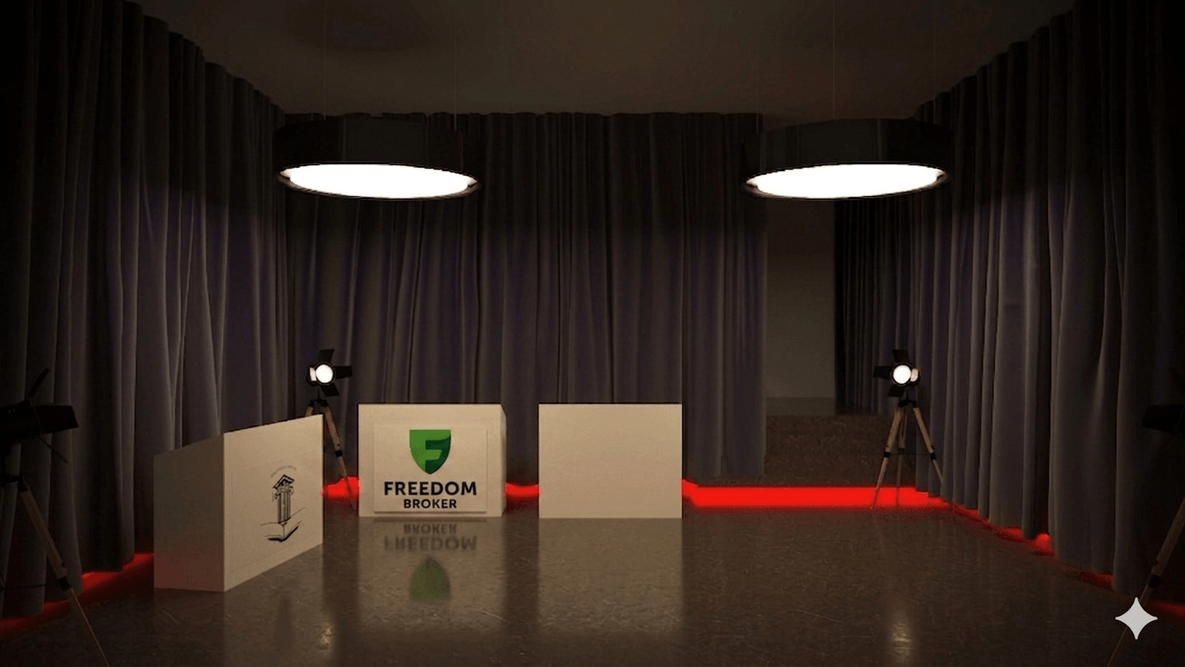
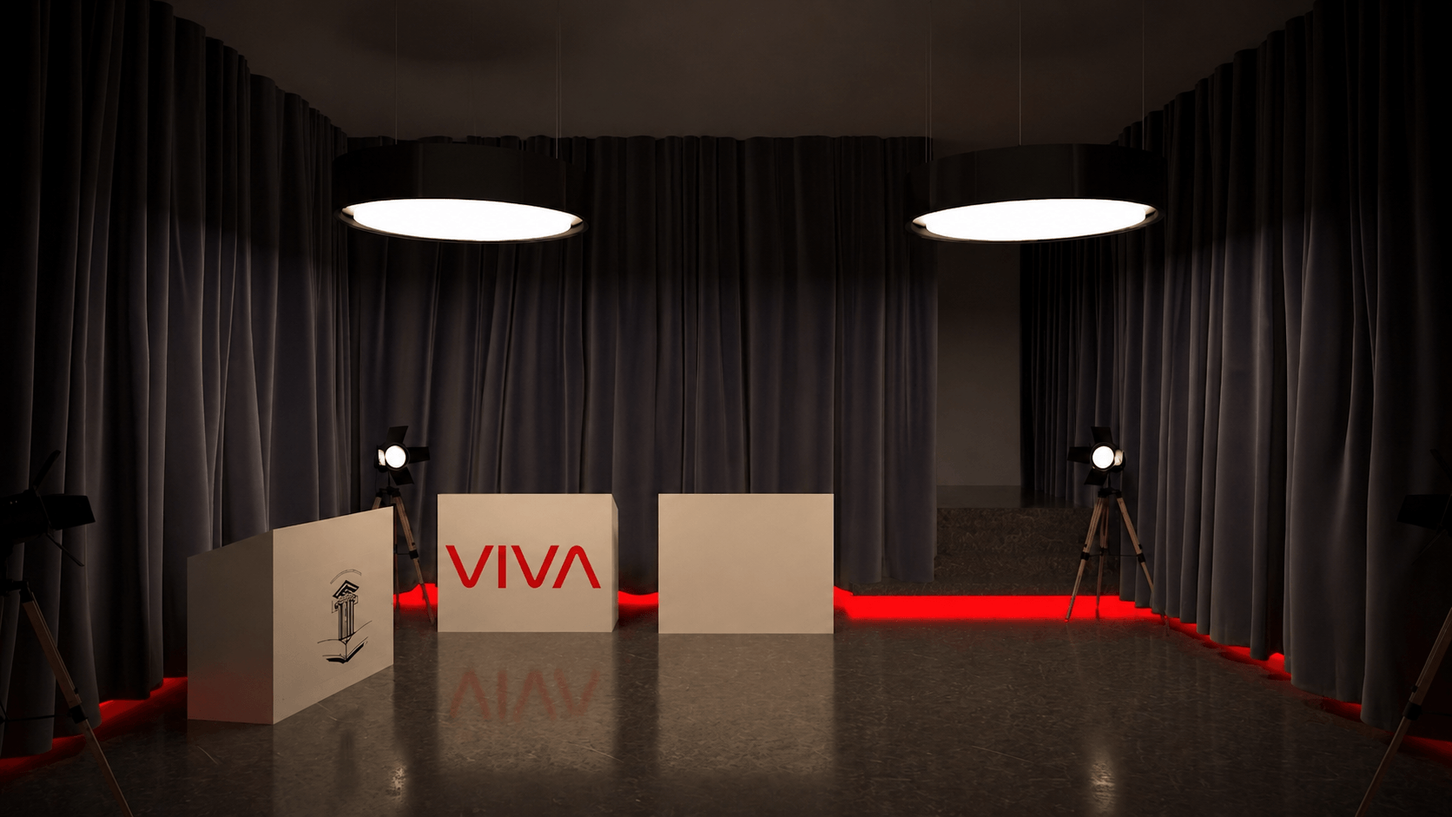
Update images and modify index.html content for Viva Armenia project; change stack-section label color in CSS

diff --git a/src/index.html b/src/index.html
@@ -338,81 +338,100 @@
             <!-- Viva -->
             <section class="viva stack-section" id="viva" aria-label="Viva">
                 <div class="container">
-                    <span class="stack-section__label">Գործարքային փաթեթ «Viva» ընկերության համար</span>
+                    <span class="stack-section__label">Գործարքային փաթեթ «Viva Armenia» ընկերության համար</span>
                     <div class="stack-section__inner">
                         <div class="stack-section__body" data-animate="animate__fadeInUp">
                             <p class="stack-section__text">
-                                <b>Համագործակցության առաջարկ</b>
+                                <b>Հարգելի՛ «Viva Armenia» ընկերության ղեկավարություն</b>
                             </p>
                             <p class="stack-section__text">
-                                Մենք առաջարկում ենք «Viva» ընկերությանը դառնալ նախագծի գլխավոր
-                                հովանավոր՝ ոչ միայն ստանալով
-                                տեսանելիություն, այլ՝ անմիջապես ձևավորելով կապ նոր սերնդի ակտիվ, մտածող և հավակնոտ
-                                ուսանողների հետ՝ խաղերի
-                                վայրում ստեղծված «Viva» ներկայացուցչական գոտու միջոցով։
+                                «Ուսանողական հարթակ» նախագիծը ստեղծվել է մեկ հստակ նպատակով՝ միավորել Հայաստանի ակտիվ,
+                                մտածող և նախաձեռնող ուսանողներին
+                                մեկ հարթակում։ Սակայն այն իրենից ներկայացնում է ավելին, քան պարզապես ինտելեկտուալ և
+                                ժամանցային ծրագիր։ Մեր և ձեր կողմից
+                                մշակված ճիշտ ռազմավարության շնորհիվ այն կարող է ձևավորել երիտասարդների թվային վարքագիծը,
+                                ընտրությունները և
+                                նախասիրությունները։
+                            </p>
+                            <p class="stack-section__text">
+                                Սա պարզապես գովազդային հարթակ չէ․ սա ուղիղ և երկարաժամկետ շփում է Ձեր հիմնական թիրախային
+                                լսարանի՝ 18–25 տարեկան ակտիվ
+                                երիտասարդների հետ, ովքեր ամենօրյա մակարդակով օգտագործում են ինտերնետ, բջջային կապ և
+                                թվային ծառայություններ։ Ծրագրի
+                                կառուցվածքը հնարավորություն է տալիս ոչ միայն ներկայացնել «Viva Armenia» ընկերությունը,
+                                այլ ստեղծել իրական պահանջարկ նրա
+                                ծառայությունների նկատմամբ։
+                            </p>
+                            <p class="stack-section__text">
+                                Մասնակիցների ակտիվ ներգրավվածությունը, խաղերի ընթացքում և հատկապես արտամրցույթային
+                                հատվածներում ձևավորվող երկարատև
+                                շփումը ստեղծում են այն միջավայրը, որտեղ ուսանողը ոչ թե պարզապես տեսնում է բրենդը, այլ
+                                սկսում է օգտվել դրանից։
+                            </p>
+                            <p class="stack-section__text">
+                                <b>ՀԱՄԱԳՈՐԾԱԿՑՈՒԹՅԱՆ ԱՌԱՋԱՐԿ</b>
+                            </p>
+                            <p class="stack-section__text">
+                                Մենք առաջարկում ենք «Viva Armenia» ընկերությանը դառնալ նախագծի գլխավոր հովանավոր՝ ոչ
+                                միայն ստանալով տեսանելիություն,
+                                այլև անմիջապես ներգրավելով նոր օգտատերեր խաղերի անցկացման վայրում կառուցված «Viva
+                                Armenia» տաղավարում։
                             </p>
                             <p class="stack-section__text">
                                 <b>Համագործակցության շրջանակում՝</b>
                             </p>
                             <ul class="stack-section__list">
-                                <li class="stack-section__text">Կստեղծվի հատուկ «Viva Student Investor Pack», որը
-                                    կներկայացվի բոլոր մասնակիցներին՝
-                                    հաշվի առնելով երիտասարդների
-                                    հետաքրքրվածությունը ֆինանսական զարգացման, ներդրումային հնարավորությունների և
-                                    ժամանակակից
-                                    թվային հարթակների նկատմամբ։</li>
-                                <li class="stack-section__text">Viva-ի ծառայությունները կներկայացվեն ոչ թե
-                                    դասական գովազդի, այլ անմիջական
-                                    շփման, փորձառության և ֆինանսական
-                                    մտածողության ձևավորման միջոցով։</li>
-                                <li class="stack-section__text">Կապահովվի բրենդի լիարժեք ներկայություն խաղասրահներում,
-                                    մեդիա բովանդակությունում և
-                                    YouTube հաղորդումներում։</li>
-                                <li class="stack-section__text">Խաղային և ինտերակտիվ մեխանիզմների միջոցով ուսանողները
-                                    կխրախուսվեն հետաքրքրվել
-                                    ներդրումային աշխարհով, ֆինանսական
-                                    գրագիտությամբ և ժամանակակից ֆինանսական գործիքներով։</li>
+                                <li class="stack-section__text">
+                                    Կստեղծվի հատուկ «Viva Student Pack» ուսանողական առաջարկ, որը կառաջարկվի բոլոր
+                                    մասնակիցներին՝ հաշվի առնելով նրանց թվային
+                                    ակտիվ վարքագիծը։
+                                </li>
+                                <li class="stack-section__text">
+                                    «Viva Armenia»-ի ծառայությունները կներկայացվեն ոչ թե դասական գովազդի, այլ անմիջական
+                                    շփման և փորձառության միջոցով։
+                                </li>
+                                <li class="stack-section__text">
+                                    Կապահովվի բրենդի լիարժեք ներկայություն խաղասրահներում, մեդիա բովանդակությունում և
+                                    YouTube հաղորդումներում։
+                                </li>
+                                <li class="stack-section__text">
+                                    Խաղային մեխանիզմների միջոցով ուսանողներին կխրախուսվի օգտվել «Viva Armenia»-ի
+                                    ծառայություններից։
+                                </li>
                             </ul>
                             <p class="stack-section__text">
                                 Միաժամանակ, նախագծի կարևոր նպատակներից է ստեղծել այնպիսի միջավայր, առաջարկներ և
                                 ազդեցություն, որտեղ նույնիսկ այն
-                                ուսանողները, ովքեր նախկինում երբևէ չեն հետաքրքրվել ներդրումներով և ֆինանսական
-                                շուկաներով, աստիճանաբար կսկսեն
-                                ուսումնասիրել այդ ոլորտը և իրենց առաջին քայլերը կատարել Viva-ի միջոցով՝
-                                դառնալով ընկերության ապագա
-                                երկարաժամկետ հաճախորդներ և ներդրողներ։
+                                ուսանողները, ովքեր արդեն օգտվում են այլ թվային ծառայություններից, կվերանայեն իրենց
+                                ընտրությունը և աստիճանաբար կանցնեն
+                                «Viva Armenia»-ի ծառայություններին՝ դառնալով ընկերության նոր և երկարաժամկետ բաժանորդներ։
                             </p>
                             <p class="stack-section__text">
-                                <u>Սա գովազդ չէ։ Սա համակարգ է,</u> որտեղ ուսանողները ոչ թե պարզապես տեսնում են
-                                «Viva»-ը,
-                                այլ
-                                սկսում են հետաքրքրվել ֆինանսական
-                                աշխարհով, հասկանալ ներդրումների կարևորությունը և կապ ստեղծել ընկերության հետ։
+                                <u>Սա գովազդ չէ։ Սա համակարգ է,</u> որտեղ ուսանողները ոչ թե պարզապես տեսնում են «Viva
+                                Armenia»-ն, այլ սկսում են օգտագործել այն
+                                և դառնում հաճախորդ։
                             </p>
                             <p class="stack-section__text">
-                                Խաղերի, մեդիա բովանդակության և նախագծի ինտերակտիվ միջավայրի շնորհիվ ուսանողները
-                                բնականորեն կսկսեն ներգրավվել
-                                ներդրումային մշակույթի մեջ։
+                                Խաղերի, ինտերնետի և մեդիա բովանդակության ակտիվ օգտագործման արդյունքում ուսանողները
+                                բնականորեն կանցնեն այդ փաթեթին։
                             </p>
                             <p class="stack-section__text">
-                                Հենց այս միջավայրում «Viva»-ը կարող է ներկայացնել իր հնարավորությունները ճիշտ
-                                պահին՝ ձևավորելով ոչ թե պարզապես
-                                հետաքրքրություն, այլ իրական վստահություն և երկարաժամկետ կապ երիտասարդ լսարանի հետ։
+                                Հենց այս միջավայրում «Viva Armenia»-ն կարող է ներկայացնել իր ծառայությունները ճիշտ
+                                պահին, ինչը բերում է իրական
+                                արդյունքի՝ ծառայության ընտրության։
                             </p>
                             <p class="stack-section__text">
                                 Մեր նպատակը պարզ է՝ ստեղծել ոչ միայն միջոցառում, այլ իրական միջավայր, որտեղ ձևավորվում
-                                են ապագա ներդրողները և ֆինանսապես
-                                ակտիվ սերունդը։
+                                են ապագա հաճախորդները։
                             </p>
                             <p class="stack-section__text">
-                                Եթե ուսանողը իր առաջին հետաքրքրությունը ներդրումների և ֆինանսական շուկաների նկատմամբ
-                                կապում է «Viva»-ի հետ,
-                                մեծ հավանականությամբ նա տարիներ շարունակ կմնա ընկերության ակտիվ հաճախորդը։
+                                Եթե ուսանողն իր ակտիվ տարիները կապում է «Viva Armenia»-ի հետ, նա մեծ հավանականությամբ
+                                կմնա ձեր հաճախորդ տարիներով։
                             </p>
                             <p class="stack-section__text">
-                                Սա պարզապես հովանավորություն կամ գովազդային առաջարկ չէ, այլ նոր սերնդի ֆինանսական
-                                մտածողության ձևավորման և երկարաժամկետ
-                                հաճախորդների ներգրավման իրական համակարգ է։
+                                Սա պարզապես հովանավորություն կամ գովազդային առաջարկ չէ, այլ նոր հաճախորդների ներգրավման
+                                և երկարաժամկետ բաժանորդների
+                                ձևավորման իրական համակարգ է։
                             </p>
                             <p class="stack-section__text text-2xl">
                                 <b>Եկեք միասին ստեղծենք այդ միջավայրը։</b>
@@ -446,16 +465,16 @@
                                     546 խաղերի ընթացքում բրենդի շարունակական ներկայություն
                                 </li>
                                 <li class="stack-section__text">
-                                    «Viva» բրենդավորված ներկայացուցչական գոտի միջոցառման վայրում
+                                    «Viva Armenia» բրենդավորված տաղավար միջոցառման վայրում
                                 </li>
                                 <li class="stack-section__text">
-                                    «Viva Student Investor Pack» հատուկ առաջարկի ներկայացում
+                                    «Viva Student Pack» հատուկ առաջարկի ներկայացում
                                 </li>
                                 <li class="stack-section__text">
-                                    Ուսանողների հետ անմիջական շփում և ներդրումային հնարավորությունների ներկայացում
+                                    Խաղասրահների և ընդհանուր տարածքի բրենդավորում
                                 </li>
                                 <li class="stack-section__text">
-                                    Ուսանողների հետ անմիջական շփում և ներդրումային հնարավորությունների ներկայացում
+                                    Ուսանողների հետ անմիջական շփում և ծառայությունների ներկայացում
                                 </li>
                                 <li class="stack-section__text">
                                     Վերջին 12 խաղերի հրապարակում և ցուցադրություն մեր YouTube-ի էջում
@@ -473,17 +492,27 @@
                                     Լոգոյի տեղադրում ամբողջ մեդիա բովանդակությունում
                                 </li>
                                 <li class="stack-section__text">
-                                    Ապագա երկարաժամկետ հաճախորդների և ներդրողների ձևավորման հնարավորություն
+                                    Երկարաժամկետ նոր հաճախորդների հնարավորություն
                                 </li>
                             </ul>
                             <p class="stack-section__text">
                                 <b>Առաջարկի հիմնական գաղափարը</b>
                             </p>
                             <p class="stack-section__text">
-                                Սա պարզապես հովանավորություն չէ։
-                                Սա ուսանողական միջավայրում ապագա ներդրողների ձևավորման, ֆինանսական մտածողության
-                                զարգացման և երկարաժամկետ հաճախորդների
-                                ներգրավման համակարգ է։
+                                Սա պարզապես հովանավորություն չէ։ Սա ուսանողական միջավայրում նոր բաժանորդների ներգրավման
+                                և երկարաժամկետ հաճախորդների
+                                ձևավորման համակարգ է։
+                            </p>
+                            <p class="stack-section__text">
+                                <b>Առաջարկվող արժեք՝ 12.000.000 դրամ</b>
+                            </p>
+                            <p class="stack-section__text">
+                                Մենք առաջարկում ենք առանձին ռազմավարական գործընկերություն՝ տարածքի և միջավայրի մասով,
+                                որը ներառում է խաղերի անցկացման
+                                վայրի վարձակալություն, ձևավորում և կահավորում։ Այս գործընկերության դեպքում ընդհանուր
+                                հովանավորության փաթեթը
+                                վերաձևավորվում է և նվազում է 5.000.000 դրամով՝ պահպանելով ամբողջ բրենդային և մեդիա
+                                արժեքը։
                             </p>
                             <p class="stack-section__text">
                                 <b>Առաջարկվող արժեք՝ 7.000.000 դրամ</b>
@@ -510,34 +539,67 @@
                                 <b>Փաթեթում ներառված է՝</b>
                             </p>
                             <ul class="stack-section__list">
-                                <li class="stack-section__text">Փաթեթ 1-ի բոլոր հնարավորությունները</li>
-                                <li class="stack-section__text">Evening Party եզրափակիչ ձևաչափ Պրոֆեսիոնալ լայնամասշտաբ
-                                    նկարահանմամբ։</li>
-                                <li class="stack-section__text">200+ հյուր և ուսանող եզրափակիչ միջոցառմանը</li>
-                                <li class="stack-section__text">Live broadcast մեծ էկրաններով</li>
-                                <li class="stack-section__text">DJ / hosts / entertainment ծրագիր</li>
-                                <li class="stack-section__text">«Viva» VIP zone</li>
-                                <li class="stack-section__text">Բրենդի ինտեգրում ամբողջ evening party-ի ընթացքում</li>
-                                <li class="stack-section__text">Պրոֆեսիոնալ promo video-ներ</li>
-                                <li class="stack-section__text">Մեծ սոցիալական և մեդիա լուսաբանում</li>
-                                <li class="stack-section__text">Ուսանողական շուկայում ուժեղ դիրքավորում</li>
-                                <li class="stack-section__text">Բարձր engagement և loyalty formation</li>
                                 <li class="stack-section__text">
-                                    «Viva Armenia»-ի ներկայացում որպես նախագծի
-                                    բացառիկ ֆինանսական գործընկեր
+                                    Փաթեթ 1-ի բոլոր հնարավորությունները
                                 </li>
                                 <li class="stack-section__text">
-                                    Ներդրումային և ֆինանսական մշակույթի ինտեգրում նախագծի մեդիա և event միջավայրում
+                                    Evening Party եզրափակիչ ձևաչափ պրոֆեսիոնալ լայնամասշտաբ
+                                    նկարահանմամբ
                                 </li>
                                 <li class="stack-section__text">
-                                    Ուսանողների հետ անմիջական շփման և ապագա հաճախորդների ձևավորման հնարավորություն
+                                    200+ հյուր և ուսանող եզրափակիչ միջոցառմանը
+                                </li>
+                                <li class="stack-section__text">
+                                    Live broadcast մեծ էկրաններով
+                                </li>
+                                <li class="stack-section__text">
+                                    DJ / hosts / entertainment ծրագիր
+                                </li>
+                                <li class="stack-section__text">
+                                    «Viva Armenia» VIP Zone
+                                </li>
+                                <li class="stack-section__text">
+                                    Բրենդի ինտեգրում ամբողջ Evening Party-ի ընթացքում
+                                </li>
+                                <li class="stack-section__text">
+                                    Պրոֆեսիոնալ Promo Video-ներ
+                                </li>
+                                <li class="stack-section__text">
+                                    Մեծ սոցիալական և մեդիա լուսաբանում
+                                </li>
+                                <li class="stack-section__text">
+                                    Ուսանողական շուկայում ուժեղ դիրքավորում
+                                </li>
+                                <li class="stack-section__text">
+                                    Բարձր engagement և loyalty formation
+                                </li>
+                                <li class="stack-section__text">
+                                    «Viva Armenia»-ի ծառայությունների անմիջական վաճառքի և ակտիվացման հնարավորություն
                                 </li>
                             </ul>
                             <p class="stack-section__text">
-                                <b>Առաջարկվող արժեք՝ 9.000.000 դրամ</b>
+                                <b>Առաջարկվող արժեք՝ 15.000.000 դրամ</b>
                             </p>
                             <p class="stack-section__text">
-                                Հարգանքներով՝ «Ուսանողական Հարթակ» ՍՊԸ
+                                Մենք առաջարկում ենք առանձին ռազմավարական գործընկերություն՝ տարածքի և միջավայրի մասով,
+                                որը ներառում է խաղերի անցկացման
+                                վայրի վարձակալություն, ձևավորում և կահավորում։ Այս գործընկերության դեպքում ընդհանուր
+                                հովանավորության փաթեթը
+                                վերաձևավորվում է և նվազում է 5.000.000 դրամով՝ պահպանելով ամբողջ բրենդային և մեդիա
+                                արժեքը։
+                            </p>
+                            <p class="stack-section__text">
+                                <b>Առաջարկվող արժեք՝ 10.000.000 դրամ</b>
+                            </p>
+                            <p class="stack-section__text">
+                                Արժեքի մեջ ներառված չեն հովանավորների կողմից ուսանողներին տրամադրվող նվերները և
+                                լրացուցիչ բոնուսային առաջարկները։
+                            </p>
+                            <p class="stack-section__text">
+                                Հարգանքներով՝
+                            </p>
+                            <p class="stack-section__text">
+                                «Ուսանողական Հարթակ» ՍՊԸ
                             </p>
                             <p class="stack-section__text">
                                 Email՝ <a href="mailto:usanoghakanhartak@gmail.com">usanoghakanhartak@gmail.com</a>
@@ -549,7 +611,6 @@
                     </div>
                 </div>
             </section>
-
         </main>
     </div>
 </body>

diff --git a/src/styles/sections/stack-section.css b/src/styles/sections/stack-section.css
@@ -75,8 +75,7 @@
 }
 
 .viva .stack-section__label {
-  /* background-color: #51af3d; */
-  background-color: #0f5431;
+  background-color: #e30511;
   color: #ffffff;
   padding: var(--space-1) var(--space-3);
 }
